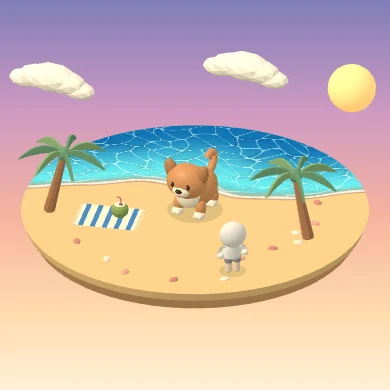
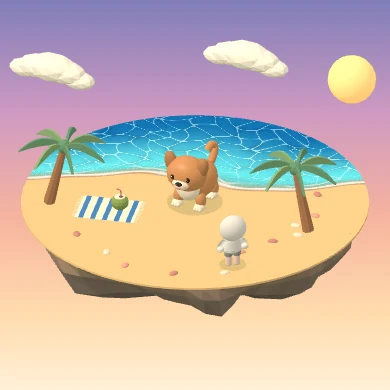
Give the coast island a jagged floating rock base

diff --git a/app/coast.js b/app/coast.js
@@ -2,6 +2,54 @@ import * as T from './vendor/three.module.min.js';
 
 export const coast={radius:4.6,sky:0xffd4b4};
 
+function makeRockBase(radius) {
+  const segments=64;
+  const layers=[
+    [1,-.061,0,0,0],
+    [.96,-.34,.035,.025,0],
+    [.82,-1.00,.082,.12,-.02],
+    [.62,-1.49,.095,.19,-.12],
+    [.34,-1.96,.085,.36,-.13],
+    [.075,-2.38,.035,.45,-.18]
+  ];
+  const rings=layers.map(([scale,y,roughness,x,z],layer) =>
+    Array.from({length:segments},(_,i) => {
+      const angle=i*Math.PI*2/segments;
+      const ridge=Math.sin(angle*7)+.46*Math.sin(angle*13+1.4)+.3*Math.cos(angle*19);
+      const outline=radius*(scale+roughness*ridge);
+      const height=y+roughness*(1.45*Math.sin(angle*5+layer*.64)+.77*Math.cos(angle*9));
+      return [x+outline*Math.cos(angle),height,z+outline*Math.sin(angle)];
+    }));
+  const positions=[];
+  const colors=[];
+  const stoneTones=[0x998371,0x88796e,0x766b65,0x645d5b].map(tone => new T.Color(tone));
+  const tint=new T.Color();
+  function face(a,b,c,layer,index) {
+    positions.push(...a,...b,...c);
+    const depth=Math.min(layer,stoneTones.length-1);
+    tint.copy(stoneTones[depth]).multiplyScalar(1+.073*Math.sin(index*2.39)+.045*Math.cos(index*.66));
+    for (let vertex=0;vertex<3;vertex++) colors.push(tint.r,tint.g,tint.b);
+  }
+  for (let layer=0;layer<rings.length-1;layer++) {
+    const top=rings[layer];
+    const bottom=rings[layer+1];
+    for (let i=0;i<segments;i++) {
+      const next=(i+1)%segments;
+      face(top[i],top[next],bottom[i],layer,i);
+      face(top[next],bottom[next],bottom[i],layer,i+13);
+    }
+  }
+  const bottom=rings[rings.length-1];
+  for (let i=0;i<segments;i++) {
+    face(bottom[i],bottom[(i+1)%segments],[.45,-2.46,-.18],5,i);
+  }
+  const geometry=new T.BufferGeometry();
+  geometry.setAttribute('position',new T.Float32BufferAttribute(positions,3));
+  geometry.setAttribute('color',new T.Float32BufferAttribute(colors,3));
+  geometry.computeVertexNormals();
+  return new T.Mesh(geometry,new T.MeshStandardMaterial({vertexColors:true,roughness:.96}));
+}
+
 export function makeCoast(scene,theme,obstacles) {
   const {radius}=theme;
   const material=color=>new T.MeshStandardMaterial({color,roughness:.88,flatShading:true});
@@ -11,8 +59,8 @@ export function makeCoast(scene,theme,obstacles) {
     parent.add(part);
     return part;
   }
-  add(new T.CylinderGeometry(radius,radius*.98,.25,64),material(0xf3c88c),0,-.131,0);
-  add(new T.CylinderGeometry(radius*.98,radius*.93,.36,64),material(0xd9a473),0,-.43,0);
+  add(new T.CylinderGeometry(radius,radius,.055,64),material(0xf3c88c),0,-.0335,0);
+  scene.add(makeRockBase(radius));
 
   // The sand and water share a ground plane so both halves remain walkable.
   const water=new T.ShaderMaterial({

diff --git a/sw.js b/sw.js
@@ -1,10 +1,10 @@
-const CACHE='annyeong-v98';
+const CACHE='annyeong-v99';
 const APP_FILES=[
-  './','./manifest.webmanifest?v=7','./app/style.css?v=94','./app/main.js?v=98','./app/photos.js?v=39',
-  './app/annyeong-wordmark.webp','./app/paw-cursor-pink.png','./app/fonts/nanum-pen-script.woff2','./app/treats.js','./app/treat-meat.png','./app/treat-fish.png','./app/friends.js?v=80','./app/account.js?v=80','./app/icons.svg?v=22','./app/data.js','./app/data.js?v=18','./app/avatar.js?v=35','./app/scene.js?v=98','./app/vendor/three.module.min.js',
+  './','./manifest.webmanifest?v=7','./app/style.css?v=99','./app/main.js?v=99','./app/photos.js?v=39',
+  './app/annyeong-wordmark.webp','./app/paw-cursor-pink.png','./app/fonts/nanum-pen-script.woff2','./app/treats.js','./app/treat-meat.png','./app/treat-fish.png','./app/friends.js?v=80','./app/account.js?v=80','./app/icons.svg?v=22','./app/data.js','./app/data.js?v=18','./app/avatar.js?v=35','./app/scene.js?v=99','./app/vendor/three.module.min.js',
   './app/owner-model.js?v=43','./app/owner-colors.js','./app/models/hood_character_cylindrical_legs.glb','./app/vendor/GLTFLoader.js','./app/vendor/BufferGeometryUtils.js',
   './app/welcome-pets/dog.webp','./app/welcome-pets/cat.webp','./app/welcome-pets/hamster.webp','./app/welcome-pets/parrot.webp','./app/welcome-pets/lizard.webp',
-  './app/coast.js?v=98','./app/theme-catalog.js','./app/theme-catalog.js?v=98','./app/extra-themes.js?v=95','./app/walk-preview.webp?v=81','./app/clouds-preview.webp','./app/stars-preview.webp','./app/coast-preview.webp?v=98','./app/food-intro-cake.webp','./app/food-game.js?v=77','./app/items.js','./app/item-names.js',
+  './app/coast.js?v=99','./app/theme-catalog.js','./app/theme-catalog.js?v=99','./app/extra-themes.js?v=95','./app/walk-preview.webp?v=81','./app/clouds-preview.webp','./app/stars-preview.webp','./app/coast-preview.webp?v=99','./app/food-intro-cake.webp','./app/food-game.js?v=77','./app/items.js','./app/item-names.js',
   './app/item-ball.png','./app/item-bath.png','./app/item-vacuum.png','./app/item-tube.png','./app/item-bag.png','./app/item-gift-0.png','./app/item-gift-1.png','./app/item-gift-2.png',
   './app/vendor/jquery.min.js','./app/icon-drawing-192.png','./app/icon-heart-32.png','./app/icon-heart-192.png','./app/icon-heart-512.png'
 ];

diff --git a/app/scene.js b/app/scene.js
@@ -3,7 +3,7 @@ import * as T from './vendor/three.module.min.js';
 import { createAvatar } from './avatar.js?v=35';
 import { createMeatTreat, createFishTreat } from './treats.js';
 import {createItem} from './items.js';
-import {coast,makeCoast} from './coast.js?v=98';
+import {coast,makeCoast} from './coast.js?v=99';
 import { meadow } from './data.js';
 import {buildOwnerModel} from './owner-model.js?v=43';
 import {ownerColors as cleanColors} from './owner-colors.js';
@@ -256,7 +256,7 @@ export function createScene(host,profile,onPet,{preview=false,background='meadow
   const eye = new T.PerspectiveCamera(54,1,.055,60);
   let camera=overview;
   overview.position.set(preview ? 2 : 5.8,preview ? 2.3 : 7.8,preview ? 5 : 12);
-  const overviewTarget=new T.Vector3(0,preview ? .76 : .45,0);
+  const overviewTarget=new T.Vector3(0,preview ? .76 : environment==='coast' ? .21 : .45,0);
   overview.lookAt(overviewTarget);
   const orbit=new T.Spherical().setFromVector3(overview.position.clone().sub(overviewTarget));
   let eyePitch=Math.atan2(.49-1.46,3);

diff --git a/app/style.css b/app/style.css
@@ -254,9 +254,20 @@ section > .page-back { margin-bottom: 20px; }
   #home[data-background="stars"] .meadow-fallback::after { animation: none; }
 }
 #home[data-background="coast"] .meadow-clouds { display: none; }
+#home[data-background="coast"] .meadow-fallback::before {
+  content: "";
+  position: absolute;
+  top: calc(43% + min(22vw, 20dvh, 192px));
+  left: 50%;
+  width: min(87vw, 81dvh, 764px);
+  aspect-ratio: 2.65;
+  transform: translateX(-50%);
+  clip-path: polygon(0 0, 100% 0, 94% 52%, 84% 65%, 74% 70%, 64% 88%, 56% 100%, 47% 91%, 34% 73%, 22% 76%, 10% 54%, 4% 36%);
+  background: conic-gradient(from 218deg at 56% 100%, #77675d, #9b826c, #75665f, #ad9076, #655e58);
+}
 #home[data-background="coast"] .meadow-island {
   background: linear-gradient(157deg, #489caf 15%, #80cfc7 32%, #fff1ce 35%, #dfb382 37%, #ffd497 43%);
-  box-shadow: 0 11px #cda371, 0 20px 0 -3px #b88c68;
+  box-shadow: 0 3px #cda371;
 }
 #home[data-background="coast"] .meadow-island::after {
   content: "";

diff --git a/app/main.js b/app/main.js
@@ -1,4 +1,4 @@
-import {themes,themeId,purchasedThemes} from './theme-catalog.js?v=98';
+import {themes,themeId,purchasedThemes} from './theme-catalog.js?v=99';
 import {createFoodGame} from './food-game.js?v=77';
 import {ownerColors as cleanOwnerColors} from './owner-colors.js';
 import {itemShape} from './item-names.js';
@@ -33,7 +33,7 @@ const random=values => values[Math.floor(Math.random()*values.length)];
 const dayKey=(date=new Date()) => [date.getFullYear(),date.getMonth()+1,date.getDate()].map(value => String(value).padStart(2,'0')).join('-');
 const civilDate=key => Date.parse(key+'T00:00:00Z');
 const tags=value => [...new Set(value.split(',').map(item => item.trim()).filter(Boolean))];
-const scenes=import('./scene.js?v=98').catch(() => null);
+const scenes=import('./scene.js?v=99').catch(() => null);
 let state, draft, addingFriend=false;
 let riding=false;
 let page, scene, sceneRevision=0, replyTimer, photoUrl, installPrompt, modeDates={};

diff --git a/app/theme-catalog.js b/app/theme-catalog.js
@@ -1,6 +1,6 @@
 export const themes={
   meadow:{name:'초원',price:0},
-  coast:{name:'노을 바다',price:50,preview:'coast-preview.webp?v=98',alt:'구름이 떠 있는 노을 아래 줄무늬 돗자리가 깔린 해변'},
+  coast:{name:'노을 바다',price:50,preview:'coast-preview.webp?v=99',alt:'구름이 떠 있는 노을 아래 줄무늬 돗자리가 깔린 해변'},
   walk:{name:'동네 산책길',price:50,preview:'walk-preview.webp?v=81',alt:'가로등과 벤치가 있는 벽돌 산책로'},
   clouds:{name:'구름 위',price:50,alt:'하늘 위에 떠 있는 폭신한 구름'},
   stars:{name:'별빛 초원',price:50,alt:'별과 달이 빛나는 밤의 초원'}

diff --git a/index.php b/index.php
@@ -8,10 +8,10 @@
   <link rel="manifest" href="./manifest.webmanifest?v=7">
   <link rel="icon" type="image/png" sizes="32x32" href="./app/icon-heart-32.png">
   <link rel="apple-touch-icon" href="./app/icon-drawing-192.png">
-  <link rel="stylesheet" href="./app/style.css?v=94">
+  <link rel="stylesheet" href="./app/style.css?v=99">
   <title>안녕</title>
   <script defer src="./app/vendor/jquery.min.js"></script>
-  <script type="module" src="./app/main.js?v=98"></script>
+  <script type="module" src="./app/main.js?v=99"></script>
 </head>
 <body>
 <audio id="meadow-music" src="./app/meadow-music.m4a" preload="none" loop></audio>
